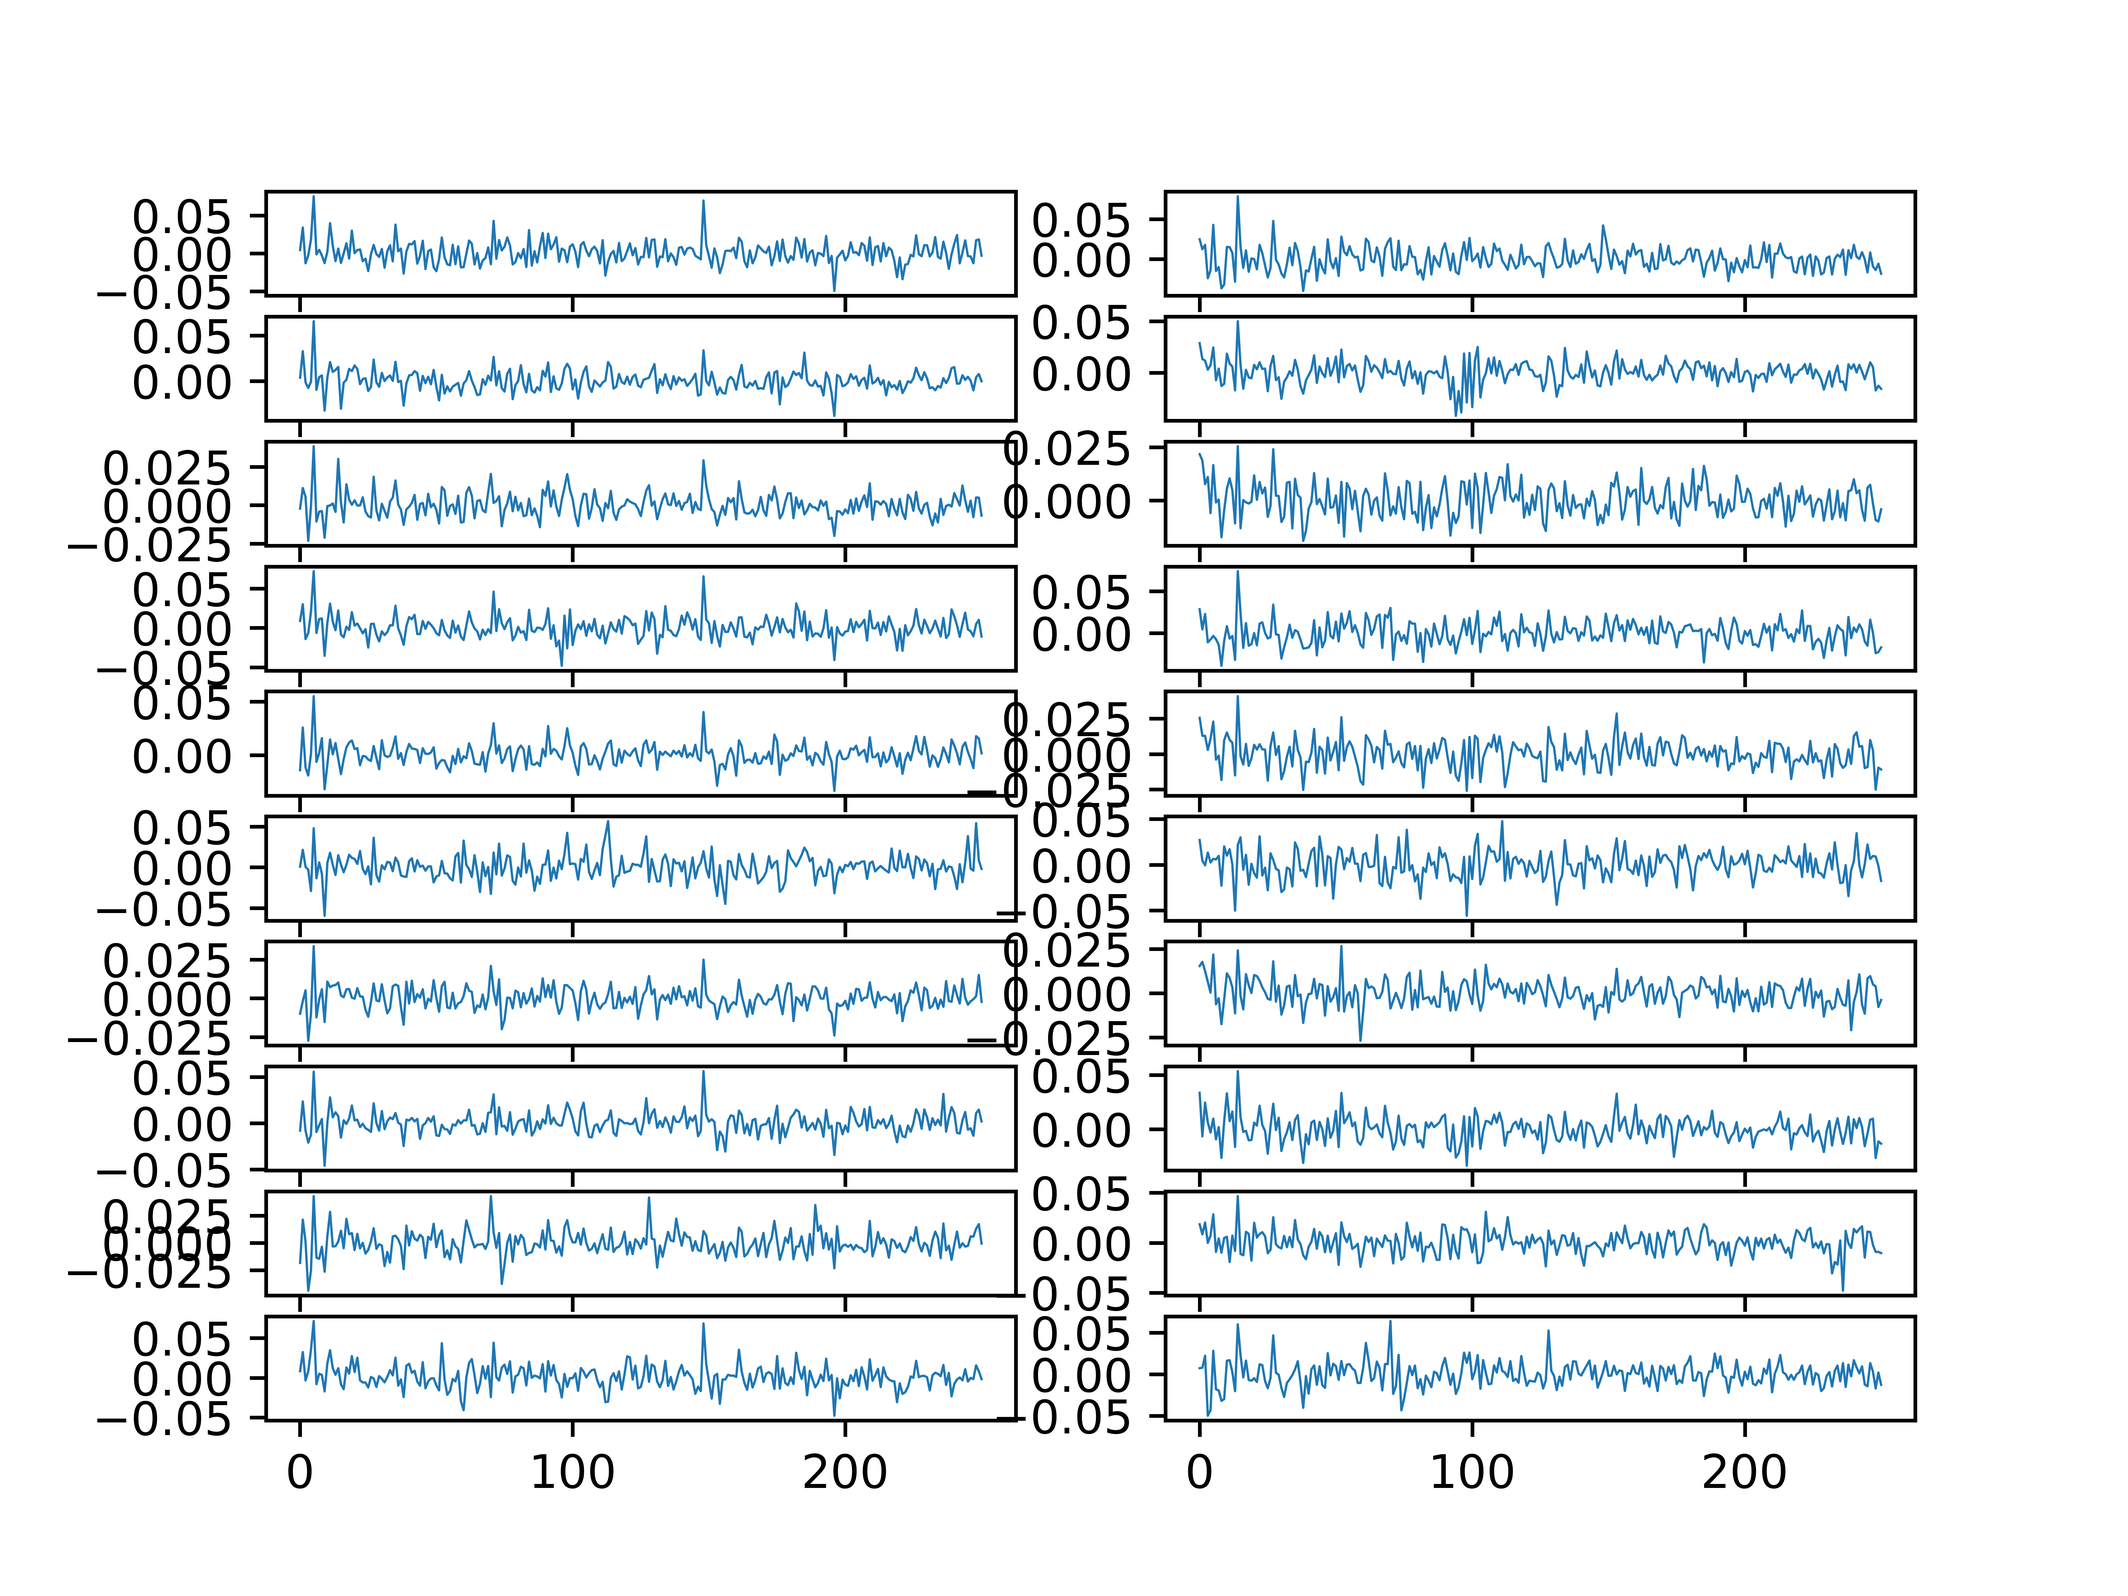
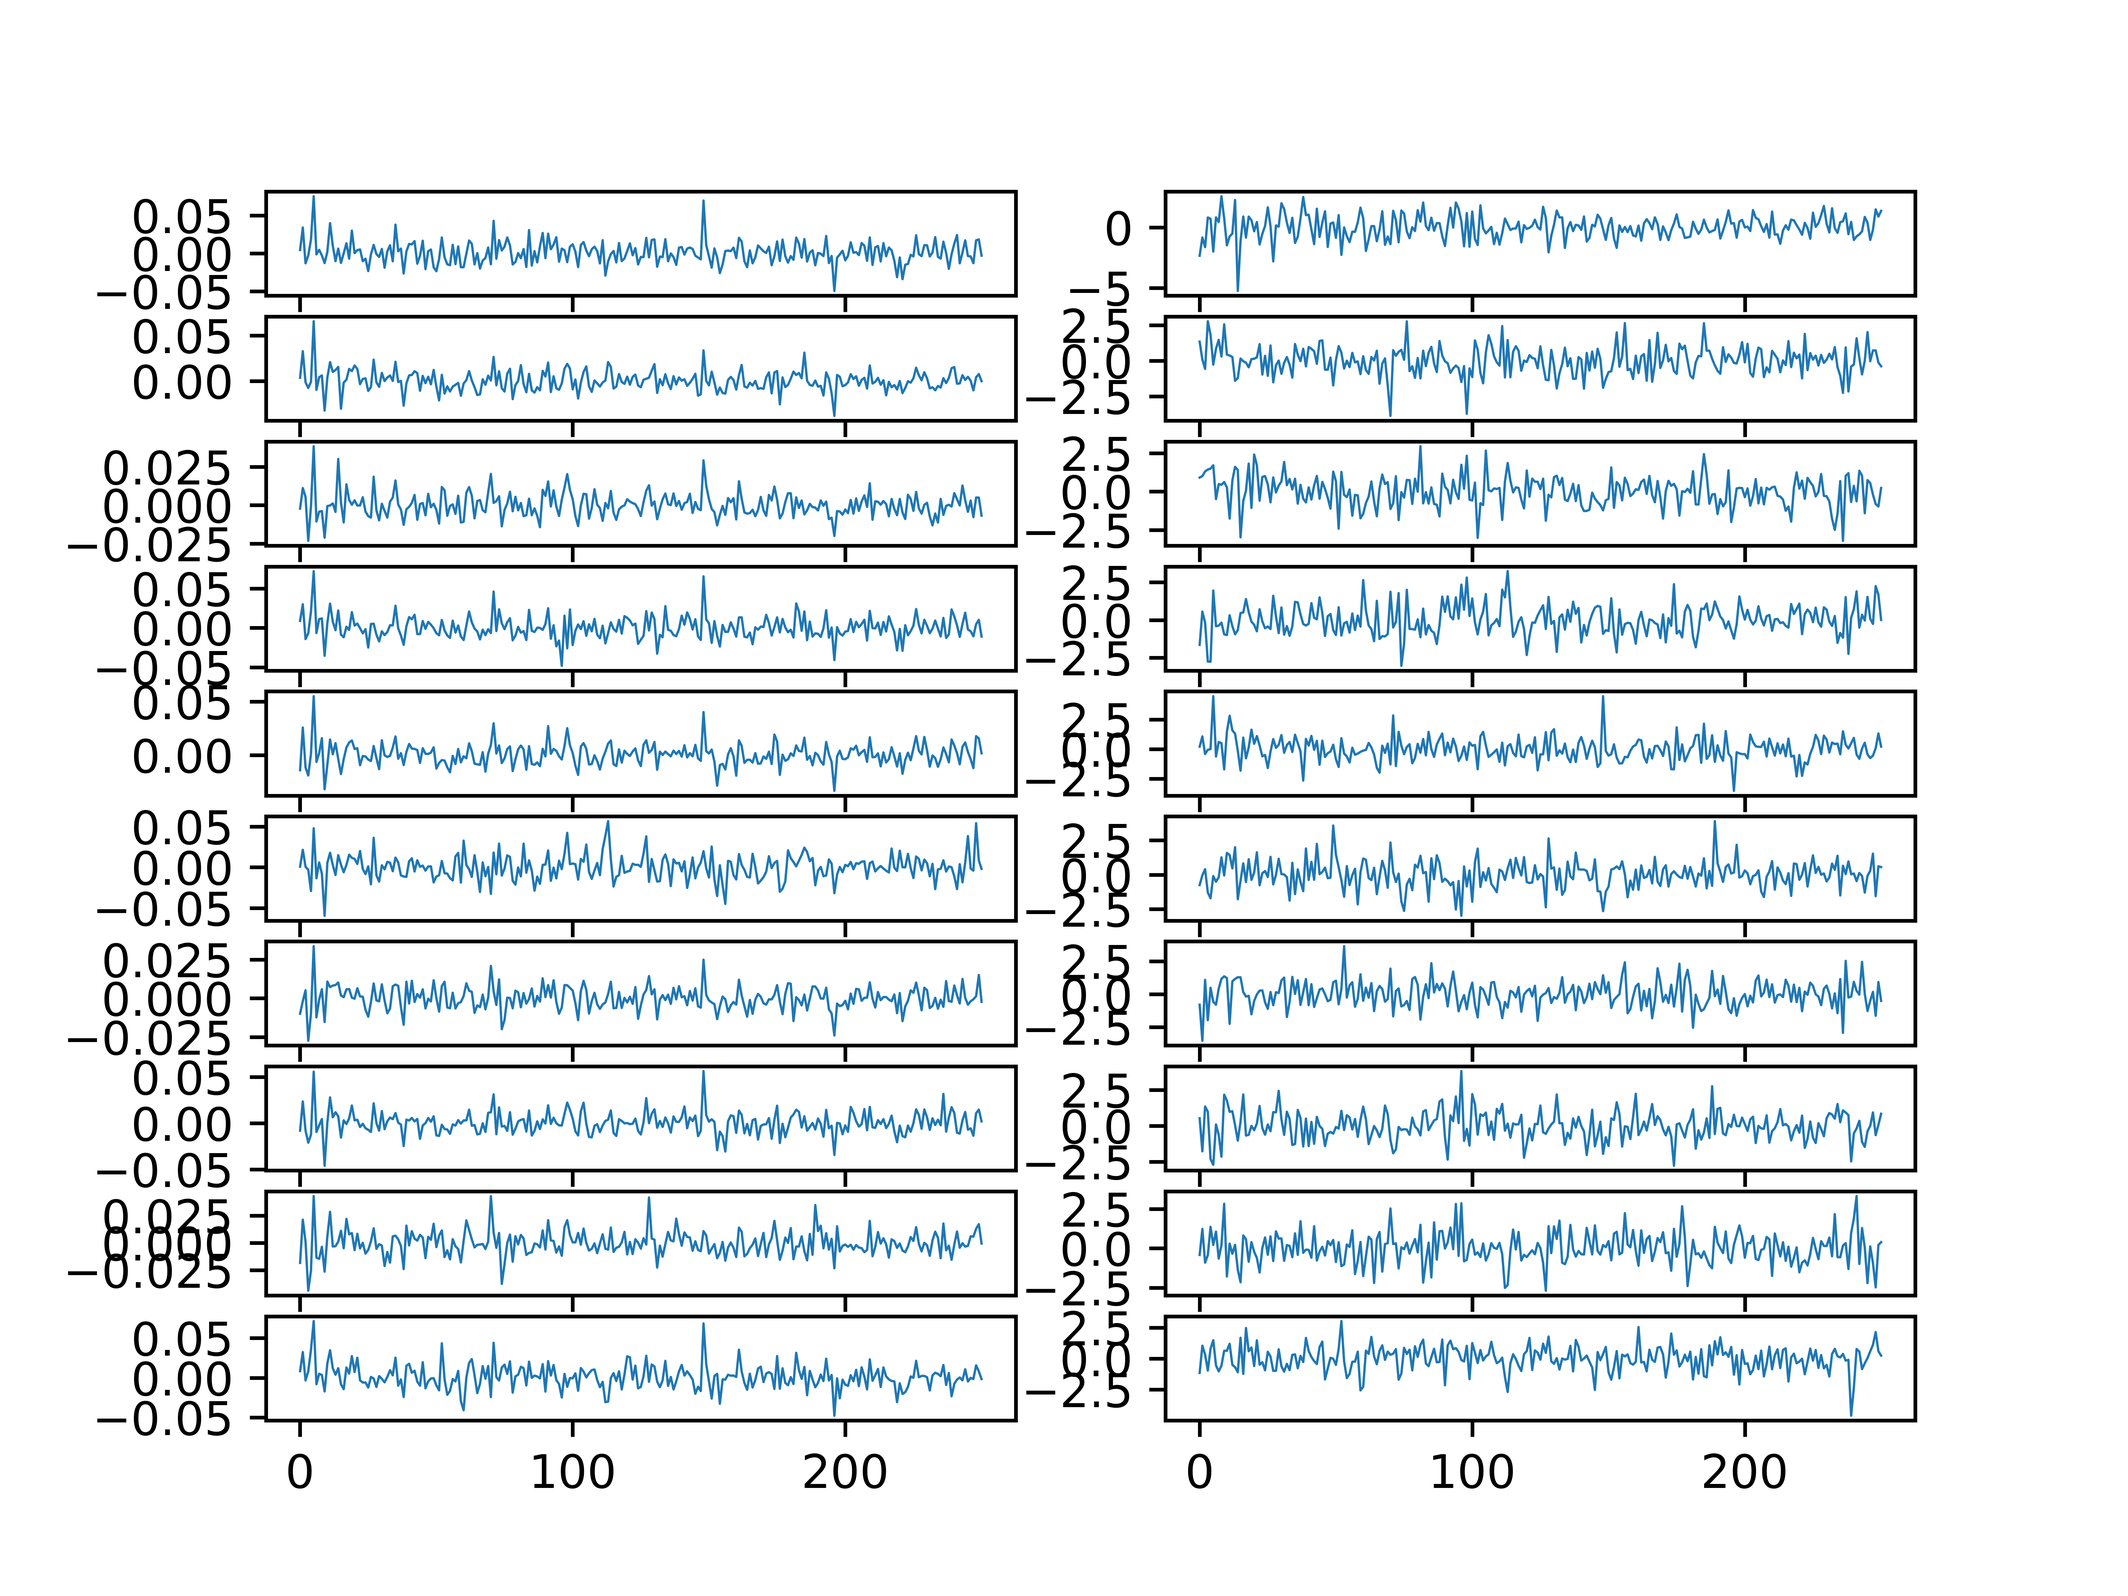
still need to work on the newton's descent

diff --git a/tests/test_ica.py b/tests/test_ica.py
@@ -1,19 +1,21 @@
 import jax
 import jax.numpy as jnp
-from mva_independent_component_analysis.fast_ica.preprocessing import demeaning, whitening
+
+from mva_independent_component_analysis.fast_ica.preprocessing import centering_and_whitening
 from mva_independent_component_analysis.fast_ica.fastica import fast_ica
 from mva_independent_component_analysis.fast_ica.discriminating_fastica import fast_ica as discriminating_fast_ica
+from mva_independent_component_analysis.mle_ica.newton import newton_ica
 
 import numpy.testing as npt
 from scipy.signal import sawtooth
 import pytest
 from functools import partial
 
-FAST_ICAs = [partial(fast_ica, fun=jnp.tanh), discriminating_fast_ica]  # test does not pass on mle_fast_ica.
+ICAs = [partial(fast_ica, fun=jnp.tanh), discriminating_fast_ica, newton_ica]  # test does not pass on mle_fast_ica.
 
 
-@pytest.mark.parametrize("fast_ica_implementation", FAST_ICAs)
-def test_fastica(fast_ica_implementation):
+@pytest.mark.parametrize("ica_implementation", ICAs)
+def test_fastica(ica_implementation):
     """
     Test the fast_ica function.
     Just making sure it does not fail.
@@ -28,14 +30,13 @@ def test_fastica(fast_ica_implementation):
     _, key_samples = jax.random.split(JAX_KEY, 2)
     X = jax.random.normal(key_samples, (n_features, n_samples))
 
-    centred_X, _ = demeaning(X)
-    whitened_X, _ = whitening(X)
-    W = fast_ica_implementation(op_key=JAX_KEY, X=whitened_X, n_components=X.shape[0], tol=1e-5, max_iter=1000)
-    S = W.T @ whitened_X
+    X, _, _ = centering_and_whitening(X)
+    W = ica_implementation(op_key=JAX_KEY, X=X, n_components=X.shape[0], tol=1e-5, max_iter=1000)
+    S = W.T @ X
 
 
-@pytest.mark.parametrize("fast_ica_implementation", FAST_ICAs)
-def test_ica_identification(fast_ica_implementation):
+@pytest.mark.parametrize("ica_implementation", ICAs)
+def test_ica_identification(ica_implementation):
     # Blind source separation problem (BSS)
     JAX_KEY = jax.random.PRNGKey(1337)
     ns = jnp.linspace(0, 200, 500)
@@ -51,17 +52,15 @@ def test_ica_identification(fast_ica_implementation):
     # Mixed signals
     X = A @ S
     # Whiten mixed signals
-    X, mean = demeaning(X)
-    X, whiteM = whitening(X)
+    X, meanX, whiteM = centering_and_whitening(X)
     # Running ICA.
-    W = fast_ica_implementation(op_key=JAX_KEY, X=X, n_components=X.shape[0], tol=1e-8, max_iter=5000)
+    W = ica_implementation(op_key=JAX_KEY, X=X, n_components=X.shape[0], tol=1e-8, max_iter=5000)
     # Testing for orthogonality
     npt.assert_array_almost_equal(W @ W.T, jnp.identity(n_sources), decimal=2)
     # Estimated sources
     S_est = W.T @ X
     # For comparison purposes
-    S, _ = demeaning(S)
-    S, _ = whitening(S)
+    S, meanS, whiteS = centering_and_whitening(S)
     # Finding the permutation of the signals
     perm = jnp.argmax(jnp.abs(S_est @ S.T),
                       axis=0)  # trick to find the permutation of the signals

diff --git a/mva_independent_component_analysis/fast_ica/discriminating_fastica.py b/mva_independent_component_analysis/fast_ica/discriminating_fastica.py
@@ -28,8 +28,7 @@ def supergaussian(x):
 
 def fast_ica(op_key, X, n_components=None, tol=1e-2, max_iter=10 ** 5):
     """
-    Variation of the FastICA algorithm for independent component analysis,
-    Motivated by a MLE approach.
+    Variation of the FastICA algorithm for independent component analysis.
     The log-density g_i for the i-th source, s_i, is chosen depending on the
     estimated subgaussianity or supergaussianity of s_i.
 
@@ -39,9 +38,9 @@ def fast_ica(op_key, X, n_components=None, tol=1e-2, max_iter=10 ** 5):
     :param max_iter: maximum number of iterations for each component
     :return: matrix of shape (n_features, n_components) containing the components
     """
-    N, M = X.shape
+    n_features, n_samples = X.shape
     if n_components is None:
-        n_components = N
+        n_components = n_features
 
     def fun_funp(x):
         """
@@ -56,7 +55,7 @@ def fast_ica(op_key, X, n_components=None, tol=1e-2, max_iter=10 ** 5):
         def minus(x):
             # g, dg = jax.value_and_grad(subgaussian)(x)
             # another criterion is x * g - dg > 0
-            return jnp.sum(x ** 4 - 3)  # we use the kurtosis to discriminate.
+            return jnp.mean(x ** 4) - 3  # we use the kurtosis to discriminate.
 
         return jax.lax.cond(minus(x) > 0,
                             jax.vmap(jax.value_and_grad(subgaussian)),
@@ -70,21 +69,21 @@ def fast_ica(op_key, X, n_components=None, tol=1e-2, max_iter=10 ** 5):
 
     def iter_one_component(inp, key_i):
         component, W = inp
-        w_init = jax.random.uniform(key_i, (N,), minval=-1, maxval=1)
+        w_init = jax.random.uniform(key_i, (n_features,), minval=-1, maxval=1)
         w_init = w_init / jnp.linalg.norm(w_init)
 
         def iter(inps):
             step, diff, w = inps
             old_w = w
             fun_img, fun_p_img = fun_funp(w.T @ X)
-            w = 1 / M * X @ fun_img.T - 1 / M * fun_p_img @ jnp.ones(
-                (M,)) * w
+            w = 1 / n_samples * X @ fun_img.T - 1 / n_samples * fun_p_img @ jnp.ones(
+                (n_samples,)) * w
 
             @jax.vmap
             def op(wj):
                 return (w.T @ wj) * wj
 
-            sum = jnp.sum(op(W.T), axis=0).reshape((N,))  # could be optimized..
+            sum = jnp.sum(op(W.T), axis=0).reshape((n_features,))  # could be optimized..
             w = w - sum
             w = w / jnp.linalg.norm(w)
             return step + 1, jnp.linalg.norm(w - old_w), w
@@ -94,6 +93,6 @@ def fast_ica(op_key, X, n_components=None, tol=1e-2, max_iter=10 ** 5):
         return (component + 1, W), None
 
     keys = jax.random.split(op_key, n_components)
-    out, _ = jax.lax.scan(iter_one_component, (0, jnp.zeros((N, n_components))), keys)
+    out, _ = jax.lax.scan(iter_one_component, (0, jnp.zeros((n_features, n_components))), keys)
     _, W = out
     return W

diff --git a/mva_independent_component_analysis/mle_ica/newton.py b/mva_independent_component_analysis/mle_ica/newton.py
@@ -1,0 +1,83 @@
+import jax
+import jax.numpy as jnp
+from jax import lax
+
+
+def subgaussian(x):
+    """
+    Subgaussian log probability of a single source x.
+    Assumption:
+            p_i propto Exp[-x^2/2 - Log[Cosh[x]]]
+    i.e.,  g_i = x + tanh(x)
+    :param x: an array of shape (n_samples, ), float.
+
+    """
+    return jnp.tanh(x) + x
+
+
+def supergaussian(x):
+    """
+    Supergaussian log probability of a single source x.
+    Assumption:
+        p_i propto Exp[-x^2/2 + Log[Cosh[x]]]
+    i.e.,  g_i = x - tanh(x)
+    :param x: an array of shape (n_samples, ), float.
+
+    """
+    return x - jnp.tanh(x)
+
+
+def switching_criterion_kurtosis(y):
+    return jnp.mean(y ** 4) - 3
+
+
+def random_semiorthogonal_matrix(op_key, shape):
+    """
+    Generate a random semiorthogonal matrix of shape (m, n),
+    :param op_key: jax.random.PRNGKey
+    :param m: int, number of rows
+    :param n: int, number of columns
+    :return: array of shape (m, n)
+    """
+    q, _ = jnp.linalg.qr(jax.random.normal(op_key, shape=shape), mode='reduced')
+    return q
+
+
+def newton_ica(op_key, X, n_components=None, tol=1e-8, max_iter=10 ** 5,
+               learning_rate=0.001, prior=None):
+    n_features, n_samples = X.shape
+    if n_components is None:
+        n_components = n_features
+
+    def compute_update_matrix(W):
+        S = W @ X
+        id = jnp.eye(n_components, n_components)
+        if prior is None:
+            sign_matrix = jnp.diag(jax.vmap(switching_criterion_kurtosis)(S))
+            dW = (id - 1 / n_samples * (sign_matrix @ jax.vmap(jnp.tanh)(S) - S) @ S.T) @ W
+        if prior == 'super':
+            dW = (id - 1 / n_samples * (jax.vmap(jnp.tanh)(S) - S) @ S.T) @ W
+        if prior == 'sub':
+            dW = (id + 1 / n_samples * (jax.vmap(jnp.tanh)(S) - S) @ S.T) @ W
+        return dW
+
+    def cond(args):
+        step, _, update_matrix = args
+        return (step < max_iter) & (jnp.linalg.norm(update_matrix, 'fro') > tol)
+
+    def update_loop(W):
+        def loop_body(carry):
+            step, W, old_update = carry
+            dW = compute_update_matrix(W)
+            new_matrix = W + learning_rate * dW
+            new_orthornormal_matrix, _ = jnp.linalg.qr(new_matrix)
+            return step + 1, new_orthornormal_matrix, dW
+
+        dW0 = jnp.zeros_like(W)
+        _, final_matrix, final_update = lax.while_loop(cond, loop_body,
+                                                       (0, W, dW0))
+        return final_matrix
+
+    W0 = random_semiorthogonal_matrix(op_key, shape=(n_components, n_features))
+    W = update_loop(W0)
+    return W

diff --git a/mva_independent_component_analysis/fast_ica/fastica.py b/mva_independent_component_analysis/fast_ica/fastica.py
@@ -12,12 +12,9 @@ def fast_ica(op_key, X, n_components=None, tol=1e-2, fun=jnp.tanh, max_iter=10 *
     :param max_iter: maximum number of iterations for each component
     :return: matrix of shape (n_features, n_components) containing the components
     """
-    N, M = X.shape
+    n_features, n_samples = X.shape
     if n_components is None:
-        n_components = N
-
-    def fun_p(x):
-        return jax.vmap(jax.grad(fun))(x)
+        n_components = n_features
 
     def cond(args):
         step, diff, _ = args
@@ -25,19 +22,20 @@ def fast_ica(op_key, X, n_components=None, tol=1e-2, fun=jnp.tanh, max_iter=10 *
 
     def iter_one_component(inp, key_i):
         component, W = inp
-        w_init = jax.random.uniform(key_i, (N,), minval=-1, maxval=1)
+        w_init = jax.random.uniform(key_i, (n_features,), minval=-1, maxval=1)
         w_init = w_init / jnp.linalg.norm(w_init)
 
         def iter(inps):
             step, diff, w = inps
             old_w = w
-            w = 1 / M * X @ fun(w.T @ X).T - 1 / M * fun_p(w.T @ X) @ jnp.ones((M,)) * w
+            fun_image, fun_p_img = jax.vmap(jax.value_and_grad(fun))(w.T @ X)
+            w = 1 / n_samples * X @ fun_image.T - 1 / n_samples * fun_p_img @ jnp.ones((n_samples,)) * w
 
             @jax.vmap
             def op(wj):
                 return (w.T @ wj) * wj
 
-            sum = jnp.sum(op(W.T), axis=0).reshape((N,))  # could be optimized..
+            sum = jnp.sum(op(W.T), axis=0).reshape((n_features,))  # could be optimized..
             w = w - sum
             w = w / jnp.linalg.norm(w)
             return step + 1, jnp.linalg.norm(w - old_w), w
@@ -47,6 +45,6 @@ def fast_ica(op_key, X, n_components=None, tol=1e-2, fun=jnp.tanh, max_iter=10 *
         return (component + 1, W), None
 
     keys = jax.random.split(op_key, n_components)
-    out, _ = jax.lax.scan(iter_one_component, (0, jnp.zeros((N, n_components))), keys)
+    out, _ = jax.lax.scan(iter_one_component, (0, jnp.zeros((n_features, n_components))), keys)
     _, W = out
     return W

diff --git a/scripts/fastica_financial_data_sp500.py b/scripts/fastica_financial_data_sp500.py
@@ -1,11 +1,16 @@
-from mva_independent_component_analysis.fast_ica.preprocessing import demeaning, whitening
+from mva_independent_component_analysis.fast_ica.preprocessing import centering_and_whitening
 from mva_independent_component_analysis.fast_ica.fastica import fast_ica
+from mva_independent_component_analysis.fast_ica.discriminating_fastica import fast_ica as discriminating_fast_ica
 import pandas as pd
 import numpy as np
 import matplotlib as mpl
 import matplotlib.pyplot as plt
 import jax.numpy as jnp
+import jax
+
 mpl.rcParams['figure.dpi'] = 1000
+OP_key = jax.random.PRNGKey(1337)
+fast_ica_method = fast_ica
 
 # Reading the data.
 spy_data = pd.read_csv("./data/sp500/sp500_per_sectors.csv", index_col=0)
@@ -17,15 +22,14 @@ returns = np.log((spy_data / spy_data.shift(1)).dropna())
 returns = returns.to_numpy().T
 
 # Postprocessing the data for the fast_ica algorithm.
-returns, m = demeaning(returns)
-whitened_returns, L = whitening(returns)
+returns, m, L = centering_and_whitening(returns)
 # Running the fast_ica algorithm.
-W = fast_ica(whitened_returns, whitened_returns.shape[0])
+W = fast_ica(OP_key, returns, returns.shape[0])
 # Computing the independent components.
-independent_components = m + jnp.linalg.inv(L) @ W.T @ whitened_returns
+independent_components = m + jnp.linalg.inv(L) @ W.T @ returns
 # Plotting the independent components.
 fig, axs = plt.subplots(W.shape[0], 2)
 for i in range(W.shape[0]):
     axs[i, 0].plot(independent_components[i], label=sectors[i], linewidth=0.5)
     axs[i, 1].plot(returns[i], label=sectors[i], linewidth=0.5)
-plt.savefig("./sp500.png", dpi=1000)
+plt.savefig("./sp500.png", dpi=1000)  # hard to interpret

diff --git a/mva_independent_component_analysis/fast_ica/preprocessing/utils.py b/mva_independent_component_analysis/fast_ica/preprocessing/utils.py
@@ -1,7 +1,7 @@
 import jax.numpy as jnp
 
 
-def demeaning(X):
+def centering(X):
     """
     Centering the data.
     :param X: data matrix of shape (n_features, n_samples)
@@ -25,3 +25,14 @@ def whitening(X):
     eigenvectors = jnp.real(eigenvectors)
     inverse_eigenvalues = jnp.diag(1 / jnp.sqrt(eigenvalues))
     return inverse_eigenvalues @ eigenvectors.T @ X, inverse_eigenvalues @ eigenvectors.T
+
+
+def centering_and_whitening(X):
+    """
+    Centering and whitening the data using the two previous functions
+    :param X: data matrix of shape (n_features, n_samples)
+    :return: centered and whitened data matrix, X = m + sigma @ X
+    """
+    X, mean = centering(X)
+    X, sigma = whitening(X)
+    return X, mean, sigma

diff --git a/tests/test_preprocessing.py b/tests/test_preprocessing.py
@@ -1,6 +1,6 @@
 import jax
 import jax.numpy as jnp
-from mva_independent_component_analysis.fast_ica.preprocessing import demeaning, whitening
+from mva_independent_component_analysis.fast_ica.preprocessing import centering, whitening
 import numpy.testing as npt
 
 
@@ -24,6 +24,6 @@ def test_whitened_data():
     _, key_samples = jax.random.split(JAX_KEY, 2)
     X = mean + std @ jax.random.normal(key_samples, (n_features, n_samples))
 
-    centred_X, _ = demeaning(X)
+    centred_X, _ = centering(X)
     whitened_X, _ = whitening(X)
     npt.assert_array_almost_equal(jnp.cov(whitened_X), jnp.identity(n_features), decimal=2)

diff --git a/mva_independent_component_analysis/fast_ica/preprocessing/__init__.py b/mva_independent_component_analysis/fast_ica/preprocessing/__init__.py
@@ -1,1 +1,1 @@
-from .utils import demeaning, whitening
+from .utils import centering, whitening, centering_and_whitening
